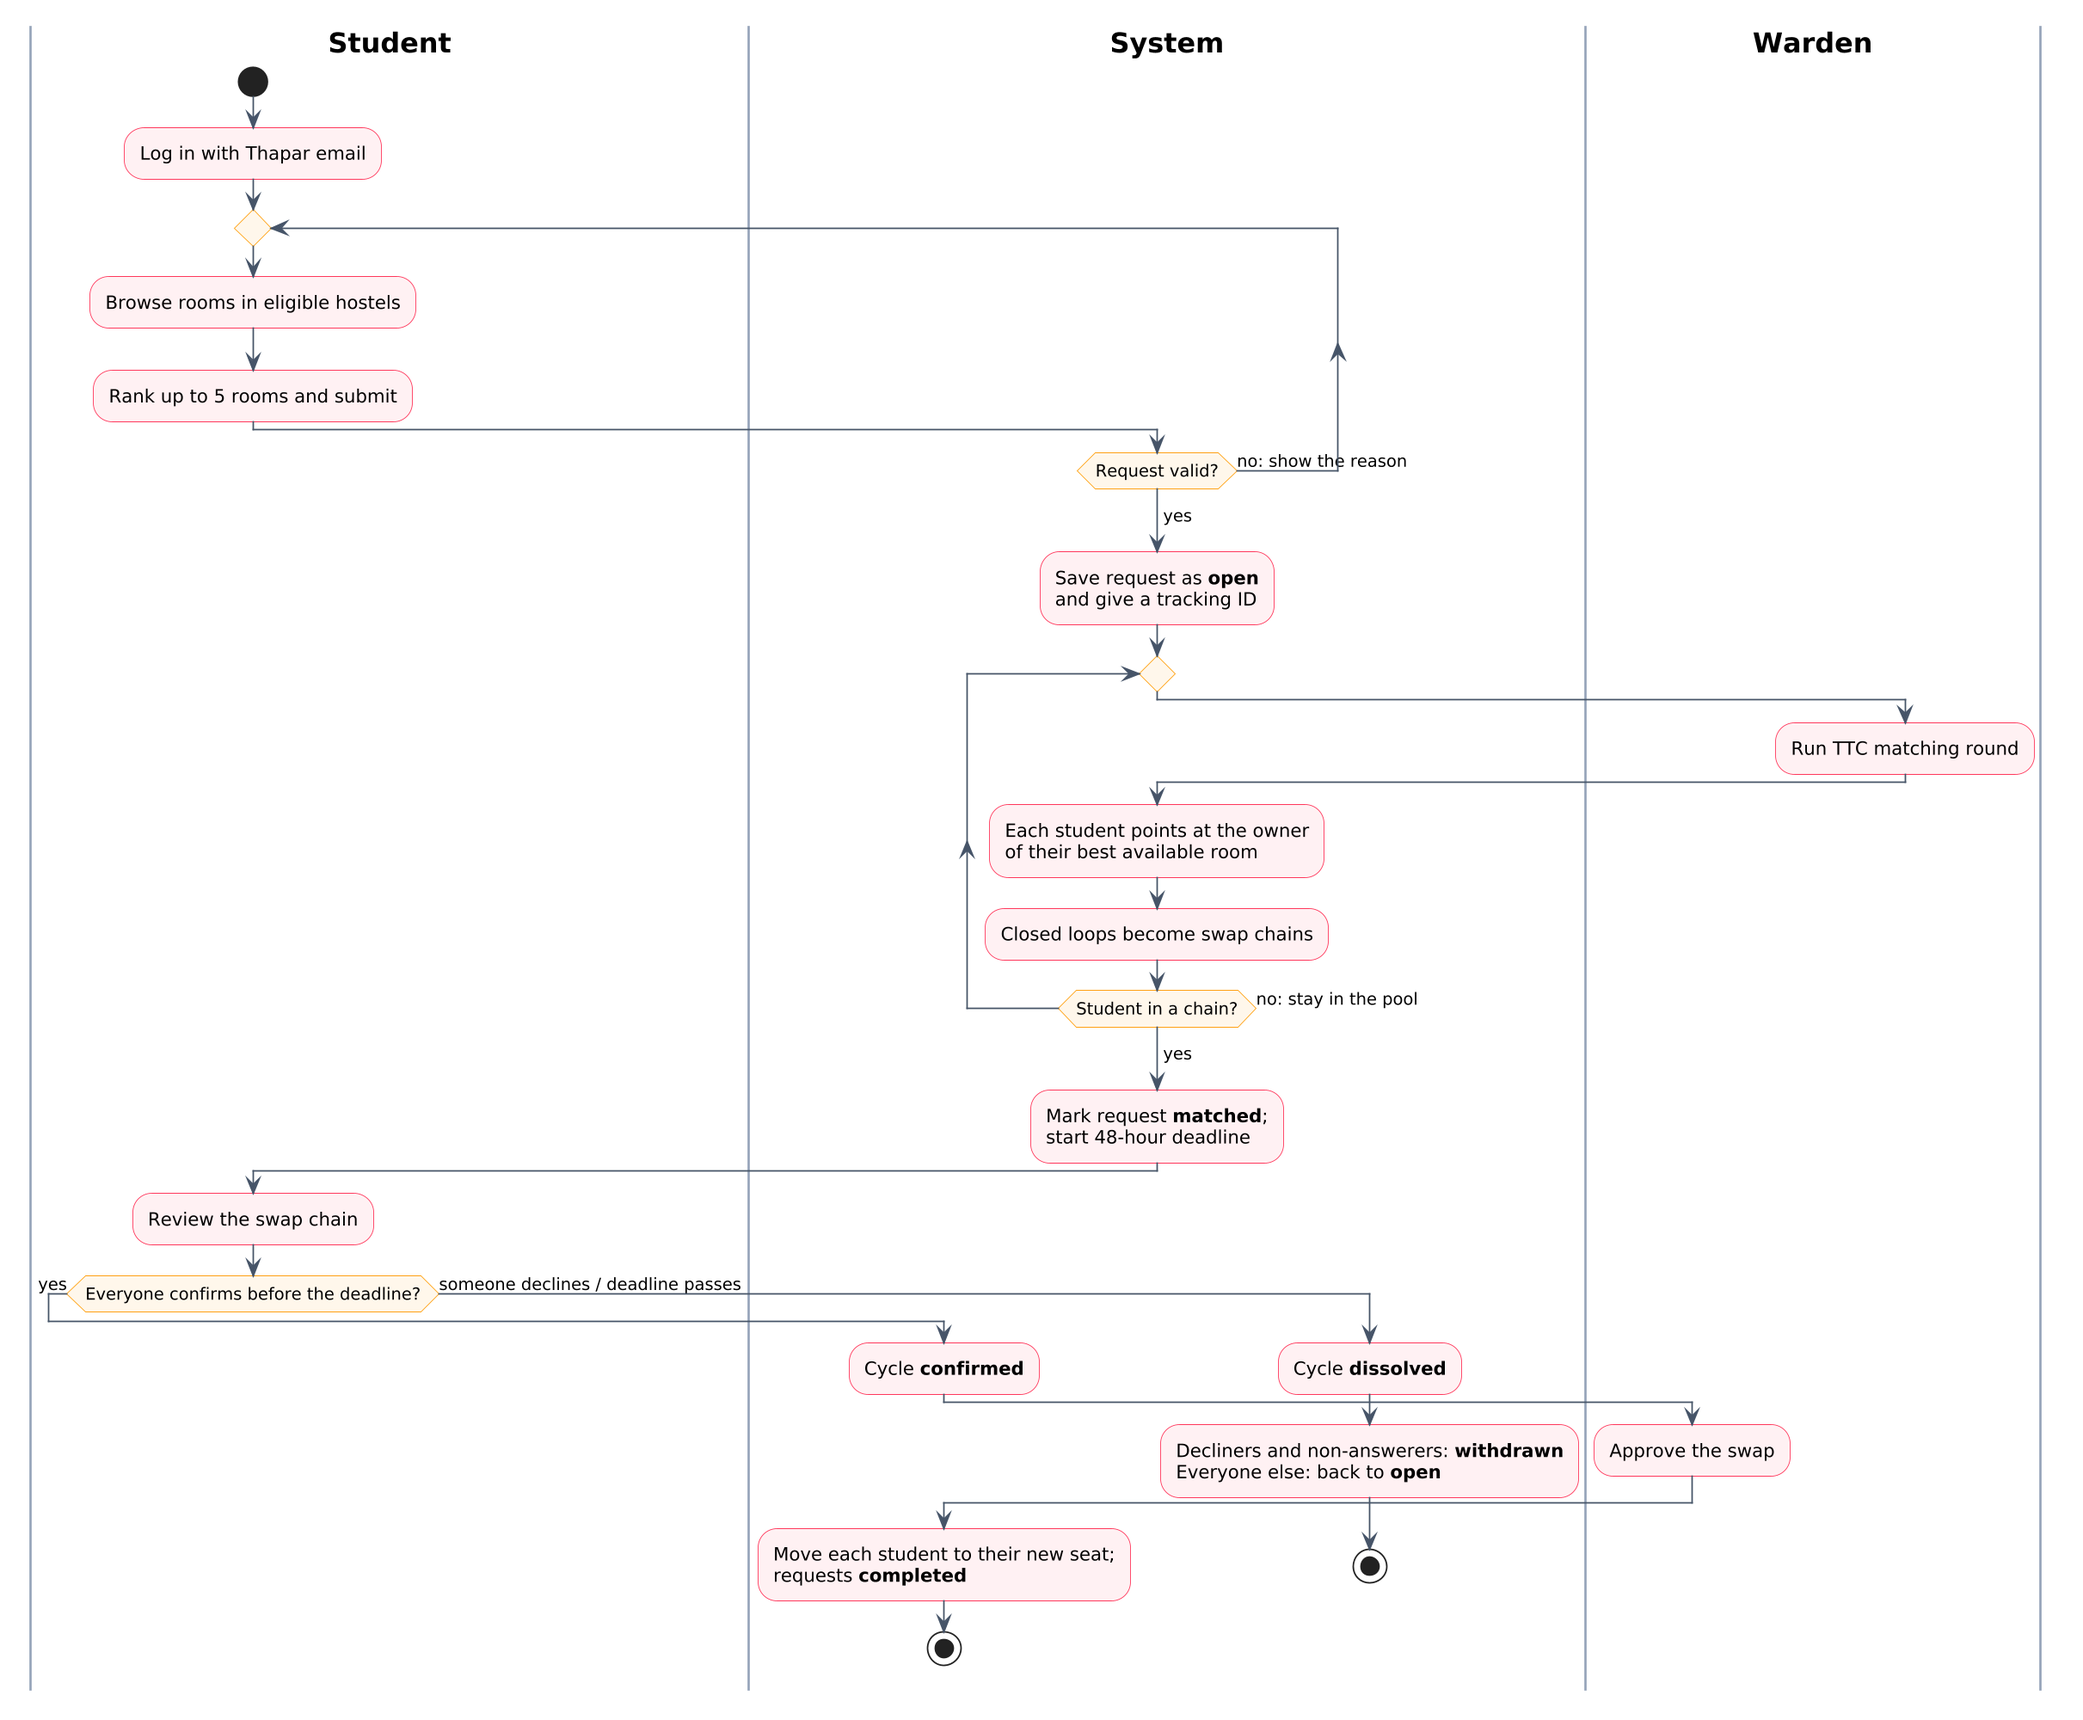
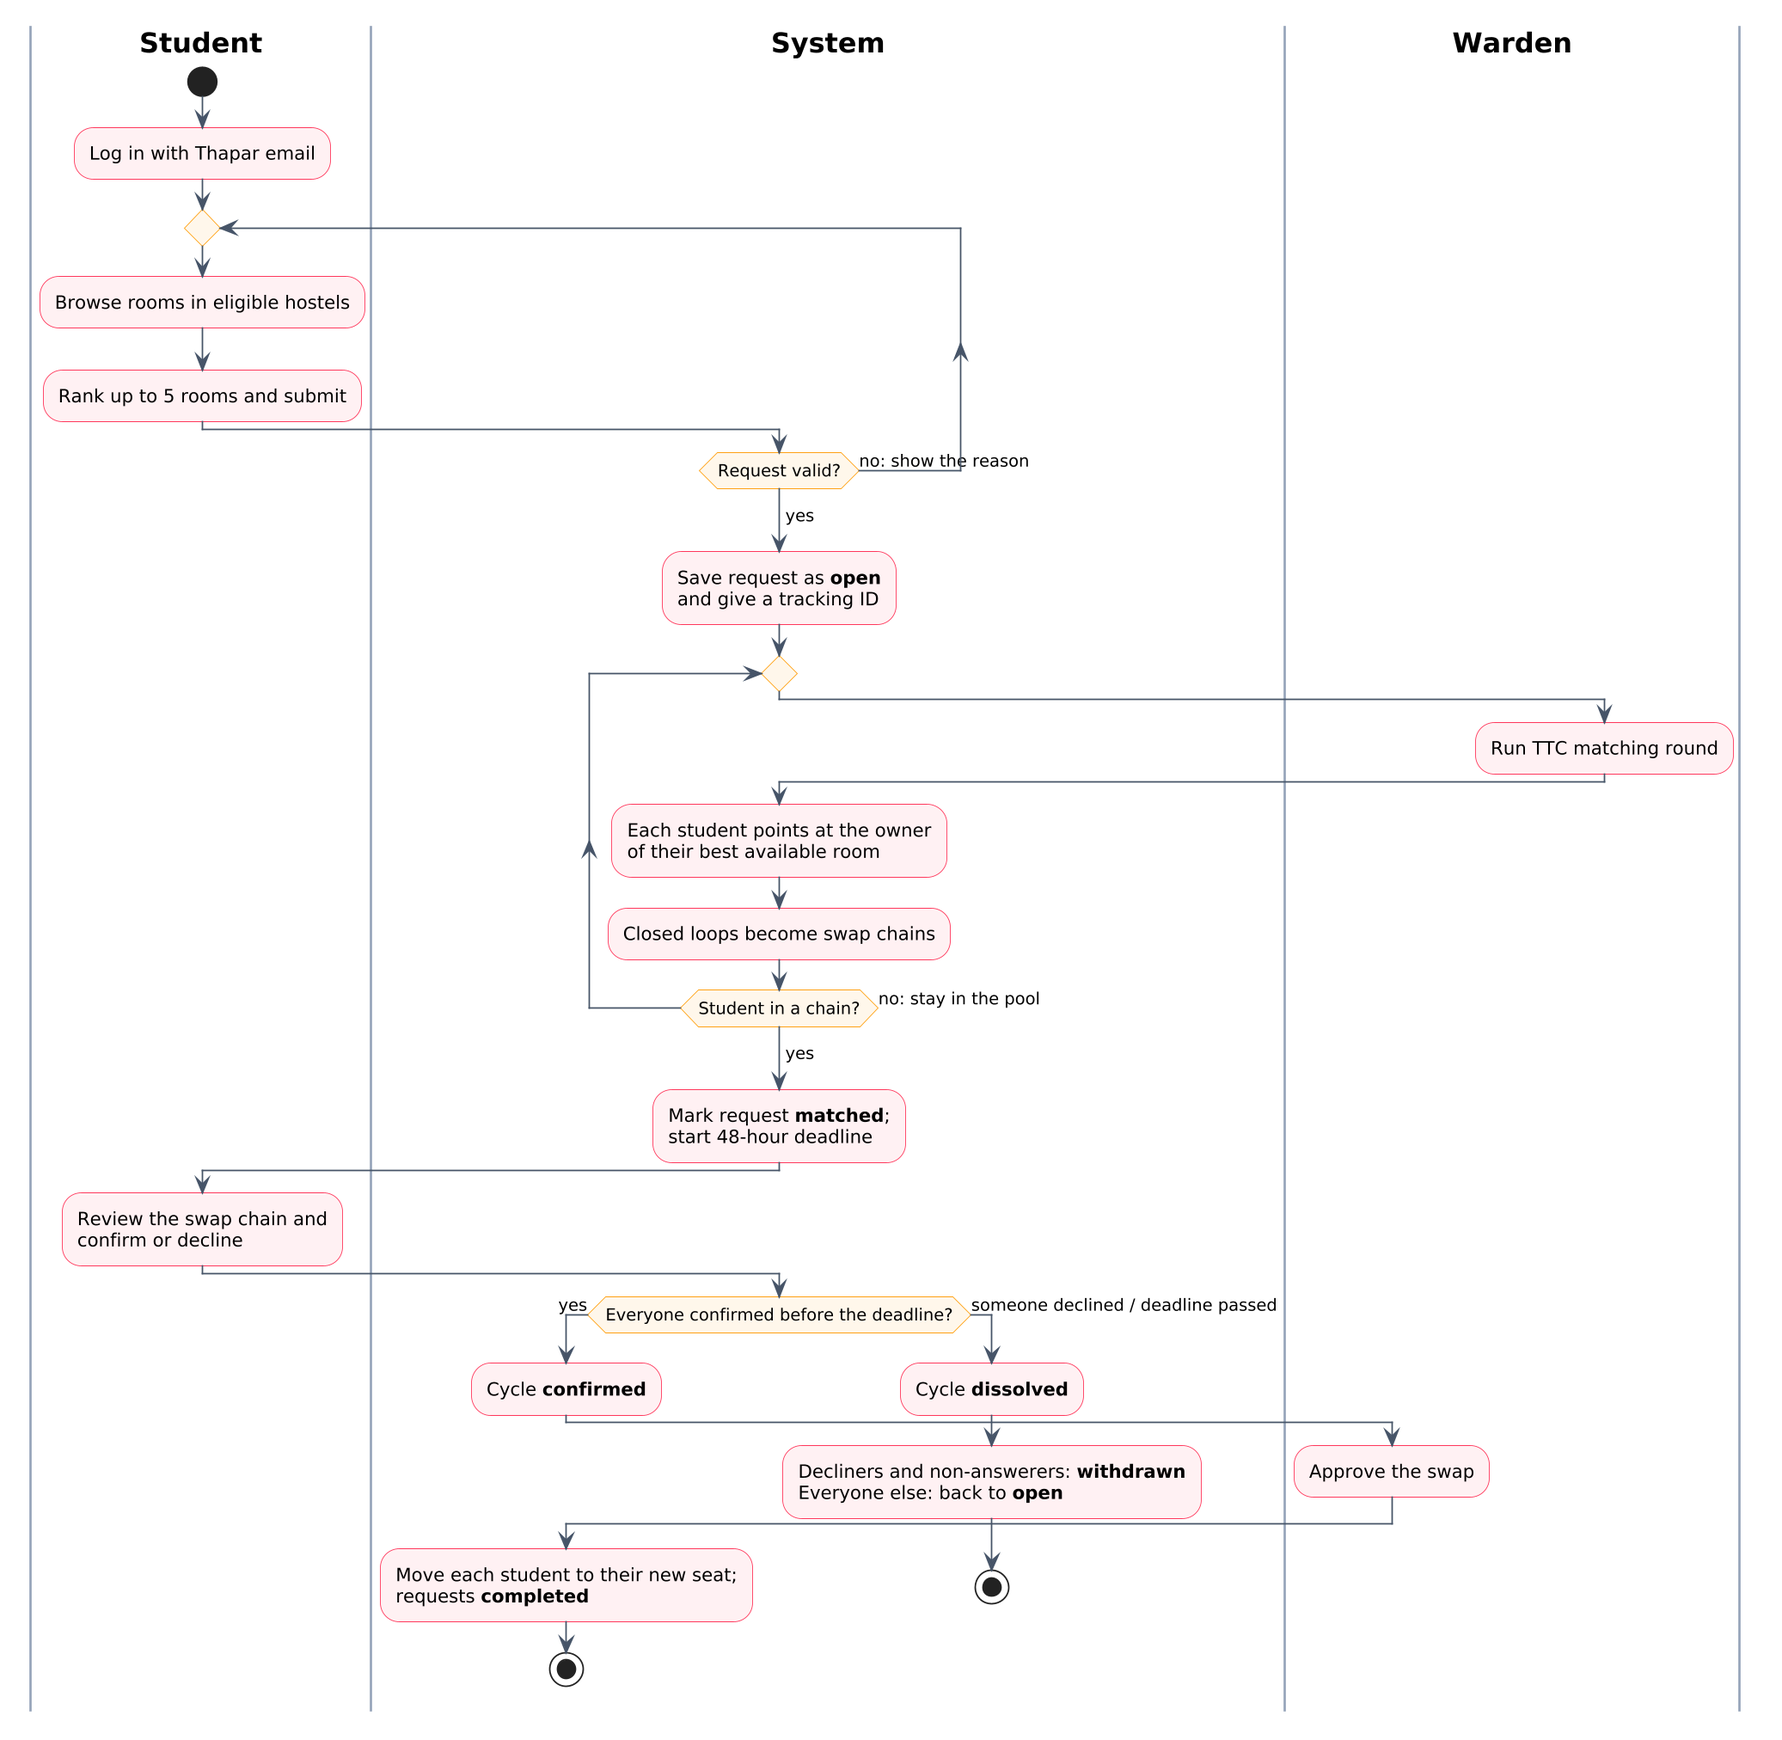
Tidy the class and activity diagrams and dashboard step wording
The class diagram no longer splits the models package name; the activity diagram's confirm/decline decision now sits with the system. The dashboard names the current step as the thing to do next.

diff --git a/code/frontend/public/js/dashboard.js b/code/frontend/public/js/dashboard.js
@@ -71,6 +71,15 @@ function promptCard(title, heading, text, href, cta) {
   </div>`;
 }
 
+// How to describe the step a student is on right now (milestone labels are past tense).
+const NOW_DOING = {
+  submitted: ["Submit your ranked list", "Pick up to 5 rooms and submit them to join the matching pool."],
+  pool: ["Waiting for the next round", "Your list is in the pool. The warden runs matching rounds."],
+  match: ["Match found", "Check your swap chain below."],
+  confirmed: ["Waiting for everyone to confirm", "Every member of the chain must confirm."],
+  approved: ["Waiting for warden approval", "Everyone confirmed. The hostel office approves next."],
+};
+
 function progressCard() {
   const { cycle, milestones } = data;
   const done = milestones.filter((m) => m.state === "done").length;
@@ -103,8 +112,8 @@ function progressCard() {
   <div class="bg-gradient-to-br from-white via-white to-amber-50/50 rounded-3xl p-6 border-2 border-amber-200 shadow-sm flex flex-col justify-between relative overflow-hidden">
     <div class="relative z-10">
       <span class="text-[11px] font-extrabold uppercase tracking-wider text-slate-400">Your progress</span>
-      <h3 class="text-xl font-extrabold text-slate-900 tracking-tight mt-2">${current ? current.label : "All steps done"}</h3>
-      <p class="text-xs text-slate-500 mt-1">${current ? "This is the step you're on now." : "Your exchange is complete."}</p>
+      <h3 class="text-xl font-extrabold text-slate-900 tracking-tight mt-2">${current ? NOW_DOING[current.key][0] : "All steps done"}</h3>
+      <p class="text-xs text-slate-500 mt-1">${current ? NOW_DOING[current.key][1] : "Your exchange is complete."}</p>
     </div>
     <div class="mt-6 flex flex-col gap-2">
       <div class="flex justify-between text-xs font-mono"><span class="text-slate-500">Steps done</span><span class="text-primary font-bold">${done} of ${milestones.length}</span></div>
@@ -247,7 +256,7 @@ function lowerGrid() {
     : `<p class="py-6 text-center text-xs text-slate-400">Nothing yet. Your activity will show up here.</p>`;
   const steps = milestones.map((m) => {
     if (m.state === "done") return html`<div class="milestone-item flex items-start gap-3 p-3 rounded-2xl bg-emerald-50/60 border border-emerald-100"><span class="material-symbols-outlined text-[20px] text-emerald-600">check_circle</span><span class="text-xs font-bold text-slate-600 mt-0.5">${m.label}</span></div>`;
-    if (m.state === "current") return html`<div class="milestone-item flex items-start gap-3 p-3 rounded-2xl bg-rose-50 border-2 border-rose-300 shadow-xs"><span class="material-symbols-outlined text-[20px] text-primary">radio_button_checked</span><div class="flex flex-col"><span class="text-xs font-extrabold text-slate-900">${m.label}</span><span class="text-[10px] font-bold text-primary flex items-center gap-1 mt-0.5"><span class="w-1.5 h-1.5 rounded-full bg-primary animate-ping"></span>You are here</span></div></div>`;
+    if (m.state === "current") return html`<div class="milestone-item flex items-start gap-3 p-3 rounded-2xl bg-rose-50 border-2 border-rose-300 shadow-xs"><span class="material-symbols-outlined text-[20px] text-primary">radio_button_checked</span><div class="flex flex-col"><span class="text-xs font-extrabold text-slate-900">${NOW_DOING[m.key][0]}</span><span class="text-[10px] font-bold text-primary flex items-center gap-1 mt-0.5"><span class="w-1.5 h-1.5 rounded-full bg-primary animate-ping"></span>You are here</span></div></div>`;
     return html`<div class="milestone-item flex items-start gap-3 p-3 rounded-2xl bg-slate-50 border border-slate-100 opacity-65"><span class="material-symbols-outlined text-[20px] text-slate-400">lock</span><span class="text-xs font-semibold text-slate-700 mt-0.5">${m.label}</span></div>`;
   }).join("");
   const pending = milestones.filter((m) => m.state !== "done").length;
